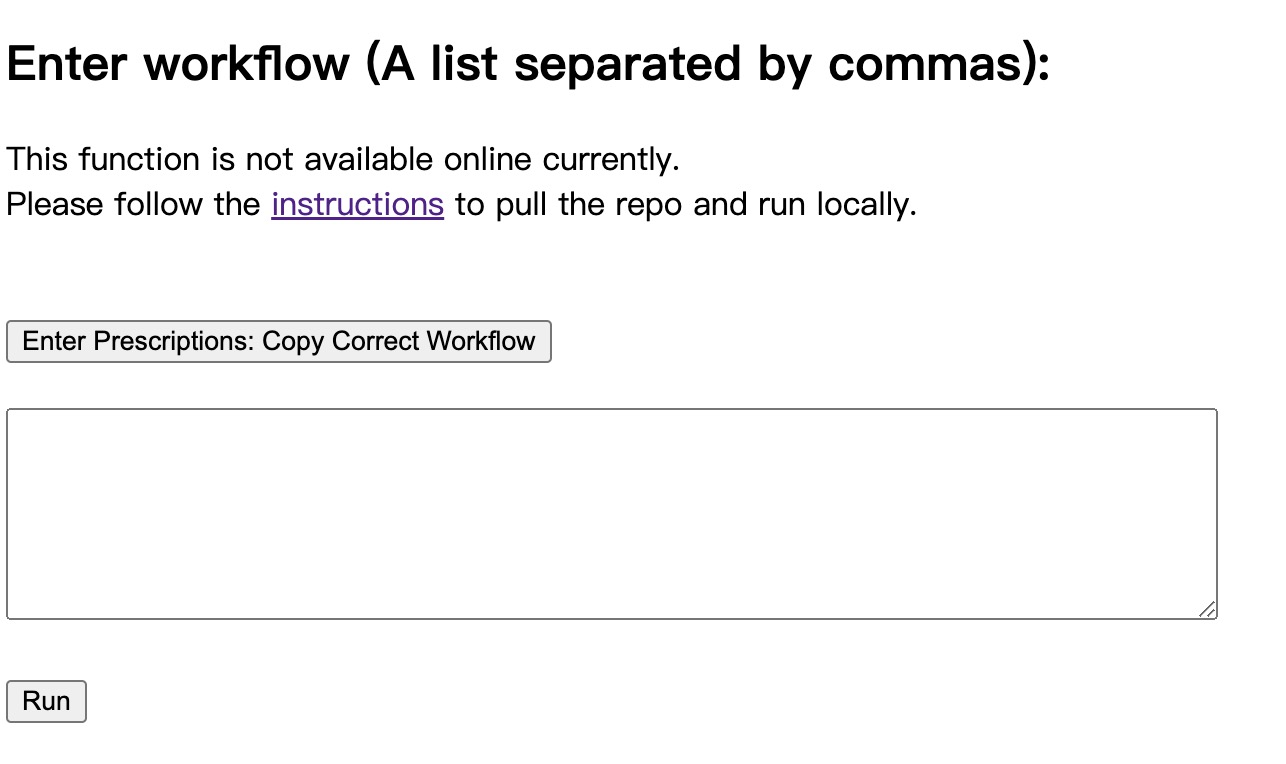
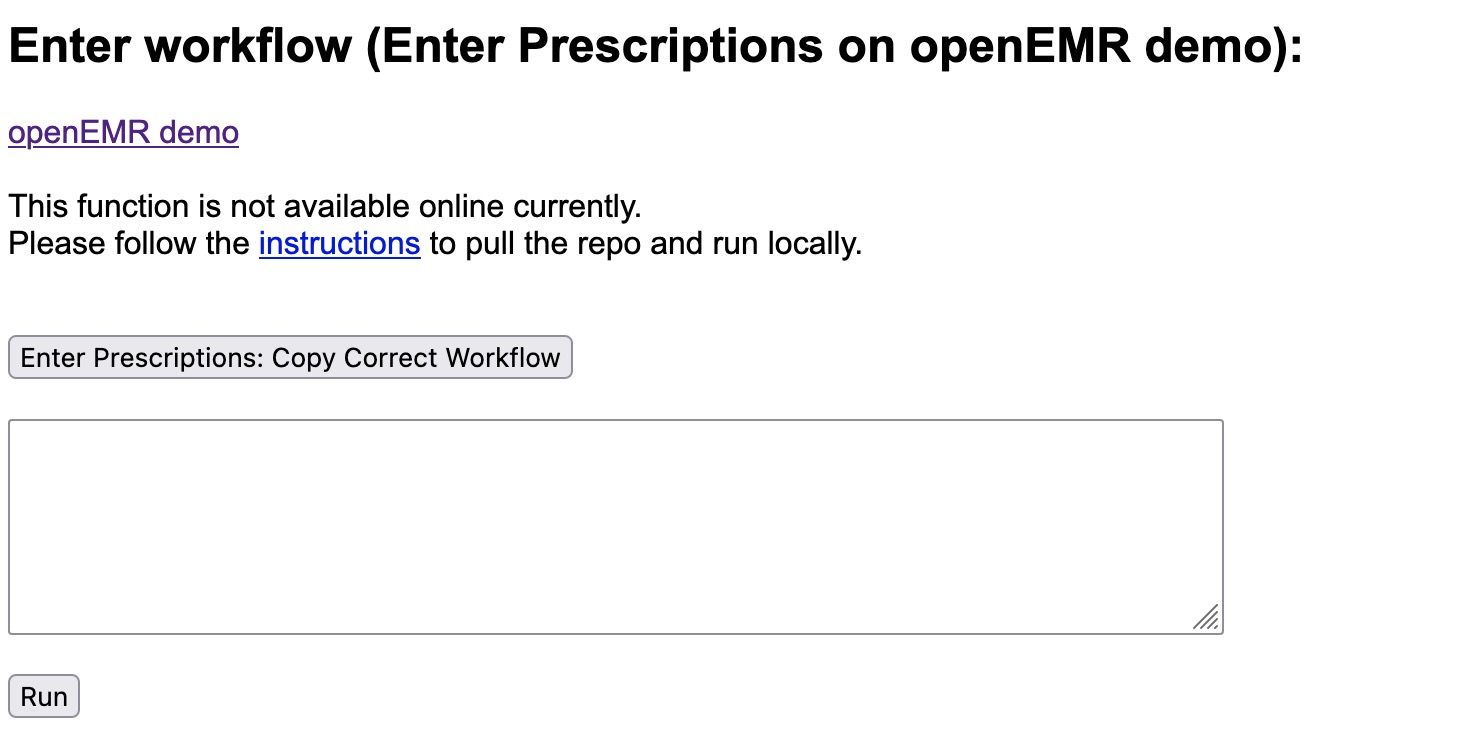
run workflow update
- change run_workflow interface
- change screenshot for run_workflow
- solve bug: invalid input handling for enter workflow

diff --git a/templates/run_workflow.html b/templates/run_workflow.html
@@ -39,7 +39,8 @@
 </head>
 <body>
 <form method="POST" action="/run_workflow" onsubmit="storeText()">
-  <br><h2><label for="actions">Enter workflow (A list separated by commas):</label></h2>
+  <br><h2><label for="actions">Enter workflow (Enter Prescriptions on openEMR demo):</label></h2>
+  <a href="https://demo.openemr.io/a/openemr/interface/login/login.php?site=default" target="_blank" rel="noopener noreferrer">openEMR demo</a><br><br>
   This function is not available online currently. <br>
   Please follow the <a href="https://leyicui-angel.github.io/DeviatedWorkflowsGenerator/" target="_blank" rel="noopener noreferrer">instructions</a> to pull the repo and run locally. <br><br><br>
   <input type="hidden" value="['click_provider','select_billy','click_drug','enter_drug_namep1','enter_drug_namep2','click_quantity','enter_quantity','enter_medicine_num','choose_medicine_unit','enter_direction_num','choose_direction_s1','choose_direction_s2','choose_direction_s3','choose_refill_num1','add_to_medicine','save']" id="correct-workflow">

diff --git a/app.py b/app.py
@@ -56,22 +56,27 @@ def download_output():
 def run_workflow():
     message = None
     if request.method == 'POST':
-        # Process the form data
         try:
             actions = request.form.get('actions')
             action_list = ast.literal_eval(actions)
             workflow = OpenEMRWorkflow()
+
+            # First, check if all actions are valid
+            for action in action_list:
+                action = action.strip()
+                if not hasattr(workflow, action):
+                    message = f"No such method: {action}. Please check again."
+                    return render_template('run_workflow.html', message=message)
+
+            # If all actions are valid, run the setup and actions
             workflow.run_setup()
             for action in action_list:
                 action = action.strip()
-                if hasattr(workflow, action):
-                    getattr(workflow, action)()
-                else:
-                    print(f"No such method: {action}")
+                getattr(workflow, action)()
+
             message = "Workflow ran successfully."
         except Exception as e:
             message = f"Error occurred: {str(e)}"
-    # Render the template (whether it's a GET or POST request)
     return render_template('run_workflow.html', message=message)
 
 

diff --git a/enter_prescription.py b/enter_prescription.py
@@ -250,19 +250,20 @@ class OpenEMRWorkflow:
         self.click_prescription_page()
         self.click_add_prescription()
 
-    def run_workflow(self, workflow):
+    def run_workflow(self, workflow_actions):
         workflow = OpenEMRWorkflow()
-        workflow.run_setup()
-        # Call deviated workflows
-        for action in workflow:
-            # Remove any leading/trailing whitespace
+        # Check if all actions are valid before running setup and actions
+        for action in workflow_actions:
             action = action.strip()
-            # Check if the method exists
-            if hasattr(self, action):
-                # If it does, call it
-                getattr(self, action)()  # note: add () to call the function
-            else:
-                print(f"No such method: {action}")
+            if not hasattr(workflow, action):
+                print(f"Invalid input: {action}. Please check again.")
+                return  # return early and do not continue with the workflow
+        # If all actions are valid, run the setup and actions
+        workflow.run_setup()
+        for action in workflow_actions:
+            action = action.strip()
+            getattr(workflow, action)()
+        print("Workflow ran successfully.")
 
 #workflow = OpenEMRWorkflow()
 #workflow.run_setup()
